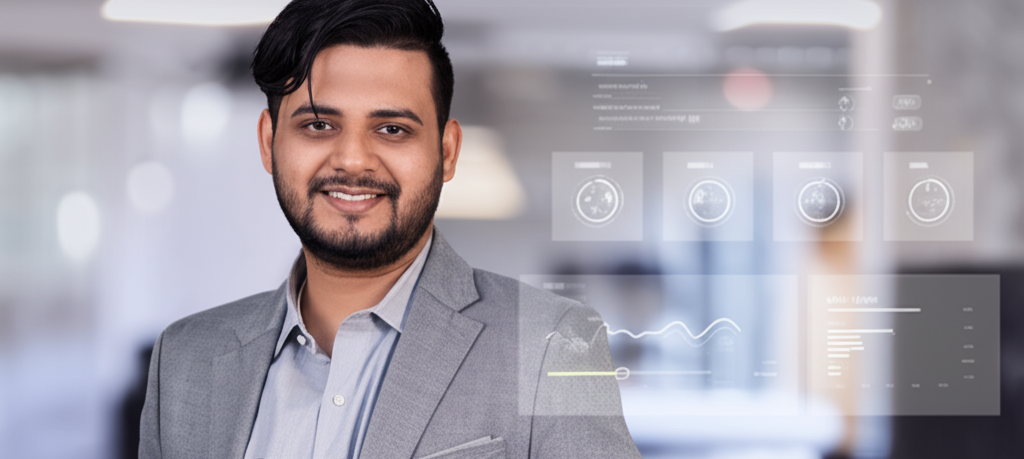
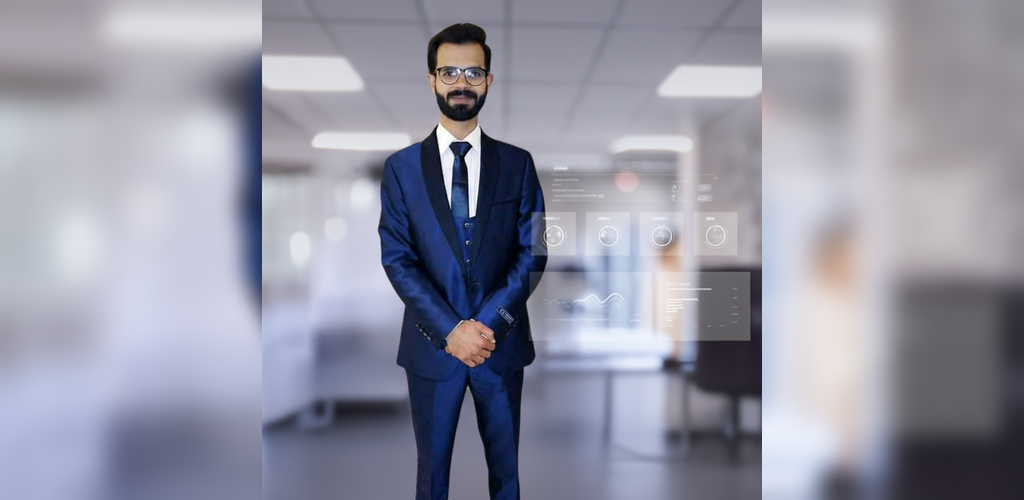
did some seo

diff --git a/app/page.tsx b/app/page.tsx
@@ -40,7 +40,6 @@ import {
 } from "lucide-react"
 import { useState, useEffect } from "react"
 import { toast } from "sonner"
-import { link } from "fs"
 
 export default function ZeeshanPortfolio() {
   const [isMenuOpen, setIsMenuOpen] = useState(false)
@@ -316,8 +315,8 @@ export default function ZeeshanPortfolio() {
                 <div className="aspect-square rounded-3xl overflow-hidden bg-gradient-to-br from-blue-100 to-indigo-100 p-1 shadow-2xl">
                   <div className="w-full h-full rounded-3xl overflow-hidden">
                     <img
-                      src="/banner_with_bgc.png"
-                      alt="Zeeshan Haider - Senior Software Engineer"
+                      src="/software-engineer-headshot.png"
+                      alt="Zeeshan Haider - Senior Software Engineer - Laravel Developer - Api Developer"
                       className="w-full h-full object-cover"
                     />
                   </div>
@@ -398,8 +397,8 @@ export default function ZeeshanPortfolio() {
               </p>
 
               <p className="text-slate-600 mb-8 leading-relaxed text-lg">
-                My core expertise includes <strong>Laravel</strong>, <strong>Next.js</strong>, <strong>PHP</strong>, and
-                <strong>JavaScript</strong>, along with hands-on experience in <strong>Docker</strong>, <strong>API Development</strong>,
+                My core expertise includes <strong>PHP</strong>, <strong>Laravel</strong>, <strong>Next.js</strong>, <strong>Net.js</strong>, and
+                <strong> JavaScript</strong>, along with hands-on experience in <strong>Docker</strong>, <strong>API Development</strong>,
                 and <strong>Cloud Deployments</strong>. I focus on delivering scalable, secure, and high-performing solutions that drive
                 business growth.
               </p>
@@ -413,6 +412,7 @@ export default function ZeeshanPortfolio() {
                     "Laravel",
                     "CodeIgniter",
                     "Node.js",
+                    "Nest.js",
                     "Next.js",
                     "React",
                     "JavaScript",
@@ -421,6 +421,7 @@ export default function ZeeshanPortfolio() {
                     "Docker",
                     "AWS",
                     "MySQL",
+                    "Postgress",
                   ].map((tech) => (
                     <Badge
                       key={tech}
@@ -652,7 +653,7 @@ export default function ZeeshanPortfolio() {
               {
                 title: "W-Flotte",
                 description: "W-Flotte offers scenic Rhine cruises, private charters, and event trips in Düsseldorf with onboard dining and entertainment.",
-                image: "/1702020869441_with_bgc.png",
+                image: "/W-Flotte.png",
                 link: "https://w-flotte.de/",
                 tags: ["PHP", "Codeignitor","Mysql","javascript", "Bootstrap", "AWS"],
                 gradient: "from-gray-800 to-gray-900",

diff --git a/app/layout.tsx b/app/layout.tsx
@@ -88,7 +88,7 @@ export default function RootLayout({
   children: React.ReactNode
 }) {
   return (
-    <html lang="en" className={`${inter.variable} ${jetbrainsMono.variable}`}>
+    <html lang="en" className={`${inter.variable} ${jetbrainsMono.variable}`} suppressHydrationWarning>
       <head>
         <link rel="canonical" href="https://zeeshanhaider.dev" />
         <meta name="viewport" content="width=device-width, initial-scale=1" />
@@ -96,9 +96,10 @@ export default function RootLayout({
         <meta name="theme-color" content="#ffffff" />
         <link rel="apple-touch-icon" href="/apple-touch-icon.png" />
         <meta name="google-site-verification" content="your-verification-code" />
-        <script type="application/ld+json">
-          {`
-            {
+        <script
+          type="application/ld+json"
+          dangerouslySetInnerHTML={{
+            __html: JSON.stringify({
               "@context": "https://schema.org",
               "@type": "Person",
               "name": "Zeeshan Haider",
@@ -120,9 +121,9 @@ export default function RootLayout({
                 "@type": "CollegeOrUniversity",
                 "name": "Comsats University Islamabad"
               }
-            }
-          `}
-        </script>
+            })
+          }}
+        />
       </head>
       <body className="min-h-screen bg-gradient-to-br from-slate-50 via-blue-50/30 to-indigo-50">
         <Toaster position="top-right" richColors />
